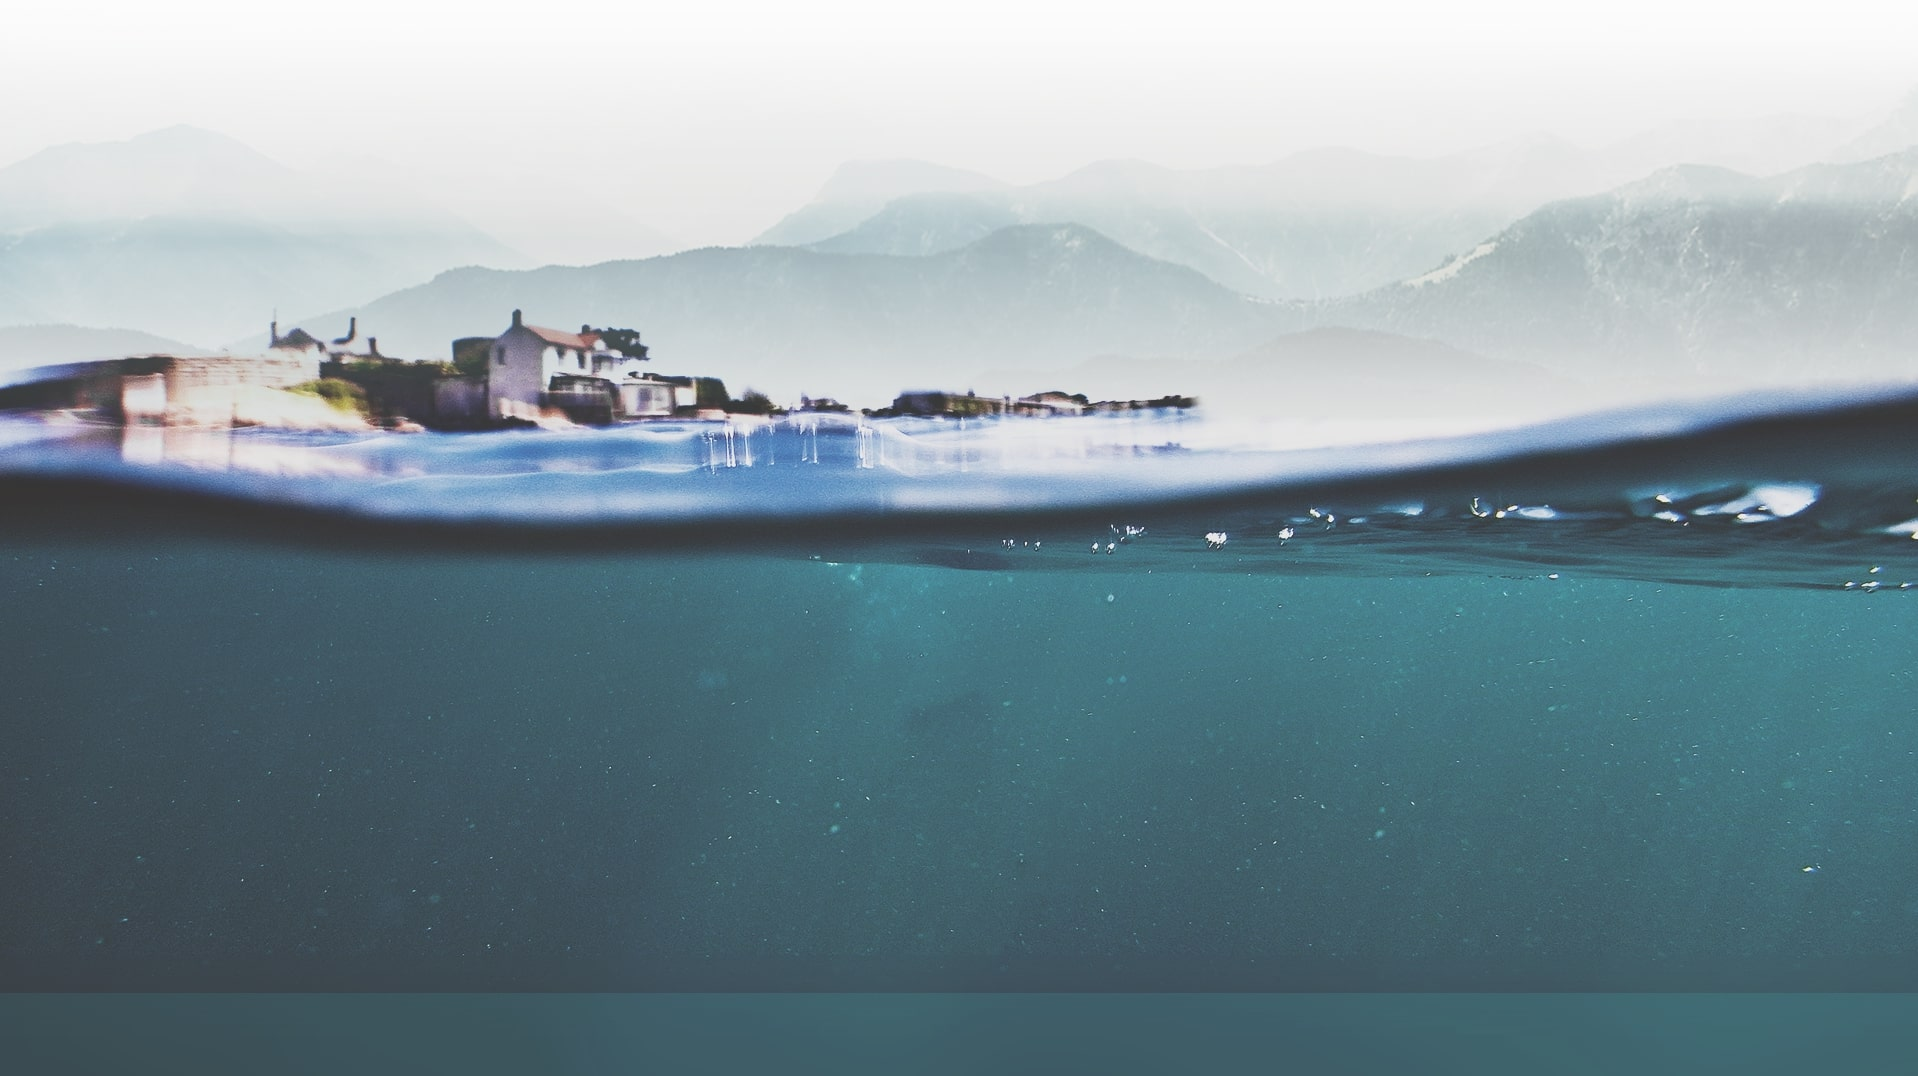
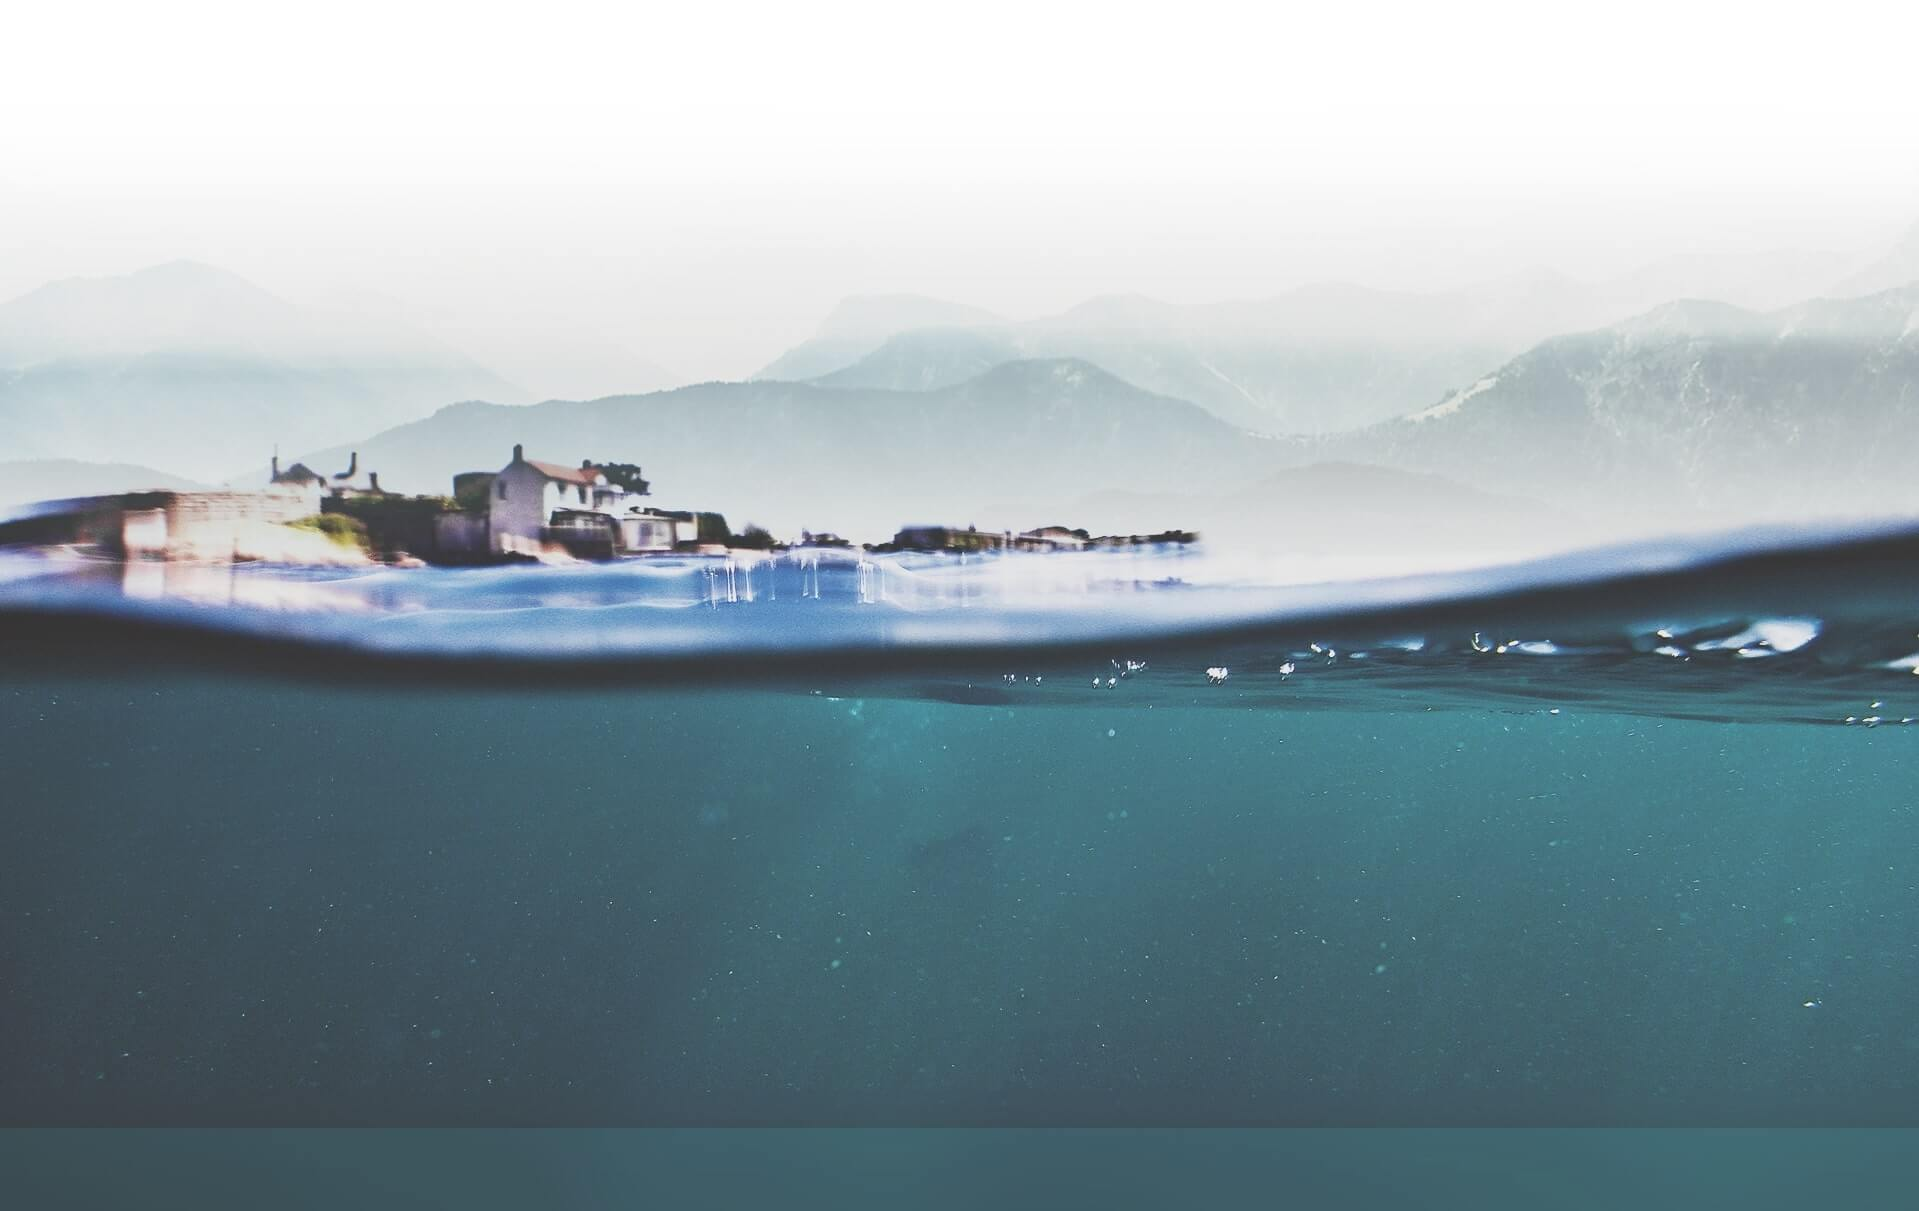
Section #9 done with a carousel

Changed region(s): [[0.0, 0.092, 1.0, 0.6134]]

diff --git a/index.html b/index.html
@@ -281,7 +281,7 @@
                 <div class="travel-us_title">
                     <h2>Travel with us</h2>
                 </div>
-                <div id="dest-carousel" class="owl-carousel">
+                <div id="destinations-carousel" class="owl-carousel">
                     <a class="travel-us_item travel-us_item-1" href="https://booking.com">
                         <div class="travel-us_item-stars">
                             <i class="fa fa-star" aria-hidden="true"></i>
@@ -403,24 +403,17 @@
         <section class="section-8">
             <div class="container section-8_container">
                <div id="brands-carousel" class="owl-carousel">
-                <figure class="brands_figure brands_figure-first">
-                    <img src="./img/section-8/slack.png" 
+                <figure class="brands_figure brands_figure-last">
+                    <img src="./img/section-8/nike.png" 
+                    width="70" 
+                    height="36"
+                    alt=" "
+                    class="brands_img brands_img-last">
+                </figure>
+                <figure class="brands_figure">
+                    <img src="./img/section-8/spotify.png" 
                     width="80" 
                     height="34"
-                    alt=" "
-                    class="brands_img brands_img-first">
-                </figure>
-                <figure class="brands_figure">
-                    <img src="./img/section-8/adobe.png" 
-                    width="35" 
-                    height="31"
-                    alt=" "
-                    class="brands_img">
-                </figure>
-                <figure class="brands_figure">
-                    <img src="./img/section-8/google.png" 
-                    width="80" 
-                    height="38"
                     alt=" "
                     class="brands_img">
                 </figure>
@@ -432,18 +425,25 @@
                     class="brands_img">
                 </figure>
                 <figure class="brands_figure">
-                    <img src="./img/section-8/spotify.png" 
+                    <img src="./img/section-8/google.png" 
                     width="80" 
-                    height="34"
+                    height="38"
                     alt=" "
                     class="brands_img">
                 </figure>
-                <figure class="brands_figure brands_figure-last">
-                    <img src="./img/section-8/nike.png" 
-                    width="70" 
-                    height="36"
+                <figure class="brands_figure">
+                    <img src="./img/section-8/adobe.png" 
+                    width="35" 
+                    height="31"
                     alt=" "
-                    class="brands_img brands_img-last">
+                    class="brands_img">
+                </figure>
+                <figure class="brands_figure brands_figure-first">
+                    <img src="./img/section-8/slack.png" 
+                    width="80" 
+                    height="34"
+                    alt=" "
+                    class="brands_img brands_img-first">
                 </figure>
                </div>
             </div>
@@ -454,15 +454,76 @@
                 <div class="reviews_title">
                     <h2>Our clients say</h2>
                 </div>
-                <div class="reviews_review-wrap">
-                    <div class="reviews_review_quotation-mark">"</div>
+                <div id="reviews-carousel" class="owl-carousel">
+                    <div class="reviews_item-wrap">
+                        <div class="reviews_item-inner-wrap">
+                            <p class="review_text">
+                                Lorem ipsum dolor sit amet, consectetur adipisicing elit, 
+                                sed do  enim ad minim veniam, quis nostrud exercitation ullamco 
+                                laboris nisi ut aliquip ex ea commodo consequat. Duis aute irure 
+                                dolor in reprehenderit in voluptate velit esse
+                            </p>
+                            <div class="review_credentials">
+                                <img class="review_credentials-photo"
+                                     src="./img/section-9/person-1.png" 
+                                     width="68px"
+                                     height="68px"
+                                     alt="Photo of the person">
+                                <p class="review_credentials-name">
+                                    <span>Pavliv Yaroslav</span> Web designer
+                                </p>
+                            </div>
+                        </div>
+                    </div>
+                    <div class="reviews_item-wrap">
+                        <div class="reviews_item-inner-wrap">
+                            <p class="review_text">
+                                Lorem ipsum dolor sit amet, consectetur adipisicing elit, 
+                                sed do  enim ad minim veniam, quis nostrud exercitation ullamco 
+                                laboris nisi ut aliquip ex ea commodo consequat. Duis aute irure 
+                                dolor in reprehenderit in voluptate velit esse
+                            </p>
+                            <div class="review_credentials">
+                                <img class="review_credentials-photo"
+                                     src="./img/section-9/person-2.png" 
+                                     width="68px"
+                                     height="68px"
+                                     alt="Photo of the person">
+                                <p class="review_credentials-name">
+                                    <span>John Scott</span> The Fringe
+                                </p>
+                            </div>
+                        </div>
+                    </div>
+                    <div class="reviews_item-wrap">
+                        <div class="reviews_item-inner-wrap">
+                            <p class="review_text">
+                                Lorem ipsum dolor sit amet, consectetur adipisicing elit, 
+                                sed do  enim ad minim veniam, quis nostrud exercitation ullamco 
+                                laboris nisi ut aliquip ex ea commodo consequat. Duis aute irure 
+                                dolor in reprehenderit in voluptate velit esse
+                            </p>
+                            <div class="review_credentials">
+                                <img class="review_credentials-photo"
+                                     src="./img/section-9/person-3.png" 
+                                     width="68px"
+                                     height="68px"
+                                     alt="Photo of the person">
+                                <p class="review_credentials-name">
+                                    <span>Marianna Yale</span> DevOps
+                                </p>
+                            </div>
+                        </div>
+                    </div>
                 </div>
             </div>
         </section>
     <!-- Section #10: Contacts -->
         <section class="section-10">
             <div class="container">
+                <div class="contacts_wrap">
 
+                </div>
             </div>
         </section>
     <!-- Footer -->

diff --git a/style/custom.css b/style/custom.css
@@ -1005,6 +1005,11 @@ header .container {
 /* Section #9: Reviews */
 
 .section-9 {
+    position: relative;
+    z-index: 5;
+}
+
+.section-9 .container {
     min-height: 480px;
     display: flex;
     flex-direction: column;
@@ -1014,7 +1019,7 @@ header .container {
 
 .reviews_title h2 {
     font-size: 30px;
-    margin-bottom: 80px;
+    text-align: center;
 }
 
 .reviews_title:before {
@@ -1026,10 +1031,56 @@ header .container {
     margin-top: 70px;
 }
 
-.reviews_review_quotation-mark {
-    font-family: 'League Gothic';
-    font-size: 92px;
+.reviews_item-wrap {
+    display: flex;
+    justify-content: center;
+}
+
+.reviews_item-inner-wrap {
+    display: flex;
+    flex-direction: column;
+    align-items: flex-start;
+}
+
+.review_text:before {
+    display: block;
+    content: " ";
+    width: 100%;
+    height: 33px;
+    background: url('../img/icons/quotes.png') left top no-repeat;
+    margin-top: 90px;
+}
+
+.review_text {
+    font-family: 'Open Sans', sans-serif;
+    font-size: 18px;
+    font-weight: 400;
+    line-height: 35px;
+    text-align: justify;
     color: #bcbcbc;
+    max-width: 530px;
+}
+
+.review_credentials {
+    display: flex;
+    align-items: center;
+    margin-top: 25px;
+}
+
+.review_credentials-photo {
+    border-radius: 50%;
+}
+
+.review_credentials-name {
+    font-family: 'Open Sans', sans-serif;
+    font-size: 16px;
+    font-weight: 300;
+    color: #36aeea;
+    margin-left: 20px;
+}
+
+.review_credentials-name span {
+    font-weight: 700;
 }
 
 
@@ -1037,12 +1088,14 @@ header .container {
 
 .section-10 {
     min-height: 800px;
+    z-index: 5;
 }
 
 /* Footer */
 
 .footer {
     min-height: 90px;
+    z-index: 4;
 }
 
 .footer:after {
@@ -1052,6 +1105,7 @@ header .container {
     height: 100%;
     position: absolute;
     bottom: 0;
+    z-index: 1;
 }
 
 .footer_blur-container {

diff --git a/style/fonts.css b/style/fonts.css
@@ -24,15 +24,3 @@ font-family: 'Roboto', sans-serif;
 		url('../fonts/TimesNewRomanItalic/times_new_roman_italic.ttf') format('truetype'), /* Safari, Android, iOS */
 		url('../fonts/TimesNewRomanItalic/times_new_roman_italic.svg#times_new_roman_italic') format('svg'); /* Chrome < 4, Legacy iOS */
 }
-
-/* League Gothic Regular (Section 'Reviews' - Quotation Marks) */
-@font-face {
-    font-family: 'League Gothic';
-    src: url('../fonts/LeagueGothic/leaguegothic-regular-webfont.eot');
-    src: url('../fonts/LeagueGothic/leaguegothic-regular-webfont.eot?#iefix') format('embedded-opentype'),
-         url('../fonts/LeagueGothic/leaguegothic-regular-webfont.woff') format('woff'),
-         url('../fonts/LeagueGothic/leaguegothic-regular-webfont.ttf') format('truetype'),
-         url('../fonts/LeagueGothic/leaguegothic-regular-webfont.svg#league_gothicregular') format('svg');
-    font-weight: normal;
-	font-style: normal;
-}

diff --git a/plugin/js/slider.js b/plugin/js/slider.js
@@ -1,4 +1,4 @@
-$('#dest-carousel').owlCarousel({
+$('#destinations-carousel').owlCarousel({
     loop:true,
     nav:false,
     dots: false,
@@ -36,12 +36,13 @@ $('#dest-carousel').owlCarousel({
 });
 
 $('#brands-carousel').owlCarousel({
+    rtl: true,
     loop:true,
     nav:false,
     dots: false,
     margin:0,
     autoplay:true,
-    autoplayTimeout:2000,
+    autoplayTimeout:4000,
     smartSpeed: 900,
     responsiveClass:true,
     responsive:{
@@ -60,6 +61,25 @@ $('#brands-carousel').owlCarousel({
         1100:{
             items:6,
             loop:false
+        }
+    }
+});
+
+$('#reviews-carousel').owlCarousel({
+    loop:true,
+    nav:false,
+    dots: false,
+    margin:40,
+    autoplay:true,
+    autoplayTimeout:7000,
+    smartSpeed: 1400,
+    responsiveClass:true,
+    responsive:{
+        0:{
+            items:1,
+        },
+        1100:{
+            items:2,
         }
     }
 });
